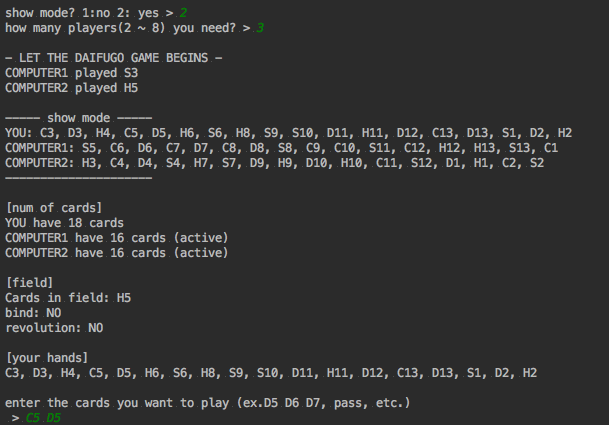
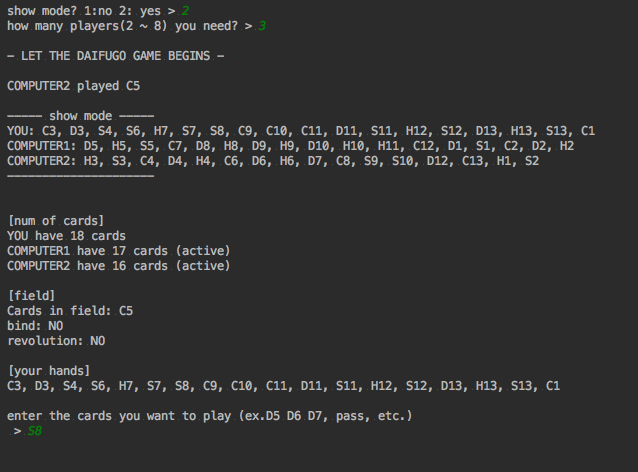
update images

Changed region(s): [[0.0, 0.0, 0.936, 0.4282], [0.0, 0.4588, 0.9048, 1.0]]

diff --git a/src/elements/Field.java b/src/elements/Field.java
@@ -155,12 +155,12 @@ public class Field {
 		}
 
 		Information info;
-		CardHolder cards;
+		CardHolder playedCards;
 
 		while (true) {
 			info = new Information(playersInfo(), cardsInField, cardsPlayed, revolution, bind);
-			cards = player.play(info);
-			if (Validator.check(cards, info)) {
+			playedCards = player.play(info);
+			if (Validator.check(player.hand(), playedCards, info)) {
 				break;
 			}
 			System.out.println("please enter again");
@@ -168,10 +168,10 @@ public class Field {
 
 		// Update Field
 		CardHolder previousCards = cardsInField.clone();
-		player.hand().subtract(cards);
-		System.out.println(player + " played " + cards);
+		player.hand().subtract(playedCards);
+		System.out.println(player + " played " + playedCards);
 
-		if (cards.numOfCards() == 0) {
+		if (playedCards.numOfCards() == 0) {
 			//in case of pass
 			nextPlayer().setState(StateOfPlayer.PLAYING);
 			player.setState(StateOfPlayer.PASSED);
@@ -180,14 +180,14 @@ public class Field {
 			//in case of NOT pass
 			cardsPlayed.add(cardsInField);
 			cardsInField.clear();
-			cardsInField.add(cards);
+			cardsInField.add(playedCards);
 
-			if (cards.numOfCards() >= 4) {
+			if (playedCards.numOfCards() >= 4) {
 				switchRevolution();
 				System.out.println("Revoluiton!!");
 			}
 
-			if (cards.numOfCards(Number.EIGHT) >= 1) {
+			if (playedCards.numOfCards(Number.EIGHT) >= 1) {
 				//in case of 8
 				System.out.println("Yagiri!");
 
@@ -206,7 +206,7 @@ public class Field {
 			} else {
 				// in case of NOT 8
 
-				if (cards.hasSameSuits(previousCards)) {
+				if (playedCards.hasSameSuits(previousCards)) {
 					bind = true;
 				}
 				nextPlayer().setState(StateOfPlayer.PLAYING);
@@ -239,6 +239,12 @@ public class Field {
 	}
 
 	public void showRank() {
+		for(Player player:players){
+			if(player.getState() != StateOfPlayer.FINISHED){
+				winners.add(player);
+			}
+		}
+
 		String str = "";
 		int rank = 0;
 		for (Player player : winners) {

diff --git a/src/elements/Validator.java b/src/elements/Validator.java
@@ -3,9 +3,9 @@ package elements;
 import elements.card.CardHolder;
 
 public class Validator {
-	public static boolean check(CardHolder cardHolder, Information info) {
+	public static boolean check(CardHolder hand, CardHolder playedCards, Information info) {
 		/* in case of pass */
-		if (cardHolder.numOfCards() == 0) {
+		if (playedCards.numOfCards() == 0) {
 			if (info.cardsInField.numOfCards() != 0) {
 				return true;
 			}
@@ -15,7 +15,12 @@ public class Validator {
 
 		/* in case of NOT pass */
 		// hand check
-		if (!cardHolder.isNoneSequence() && !cardHolder.isSequence()) {
+		if (!hand.contains(playedCards)) {
+			System.out.println("you don't have the cards");
+			return false;
+		}
+
+		if (!playedCards.isNoneSequence() && !playedCards.isSequence()) {
 			System.out.println("it's not a correct choice");
 			return false;
 		}
@@ -25,26 +30,26 @@ public class Validator {
 			return true;
 		}
 
-		//in case of unsortedCards in field
+		//in case of cards in field
 		if (info.bind) {
-			if (!cardHolder.hasSameSuits(info.cardsInField)) {
-				System.out.println("the field is bound!!!");
+			if (!playedCards.hasSameSuits(info.cardsInField)) {
+				System.out.println("the field is bound");
 				return false;
 			}
 		}
 
-		if (cardHolder.numOfCards() != info.cardsInField.numOfCards()) {
+		if (playedCards.numOfCards() != info.cardsInField.numOfCards()) {
 			return false;
 		}
 
-		if (cardHolder.isSequence() != info.cardsInField.isSequence()) {
+		if (playedCards.isSequence() != info.cardsInField.isSequence()) {
 			return false;
 		}
 
 		if (!info.revolution) {
-			return cardHolder.highCard().power() > info.cardsInField.highCard().power();
+			return playedCards.highCard().power() > info.cardsInField.highCard().power();
 		} else {
-			return cardHolder.highCard().power() < info.cardsInField.highCard().power();
+			return playedCards.highCard().power() < info.cardsInField.highCard().power();
 		}
 	}
 }

diff --git a/src/algorithm/Human.java b/src/algorithm/Human.java
@@ -1,6 +1,7 @@
 package algorithm;
 
 import elements.Information;
+import elements.Validator;
 import elements.card.Card;
 import elements.card.CardHolder;
 import elements.card.Number;
@@ -26,9 +27,10 @@ public class Human implements Algorithm {
 
 	public CardHolder play(CardHolder hand, Information info) {
 		BufferedReader br = new BufferedReader(new InputStreamReader(System.in));
-		System.out.print(info + "[your hands]\n" + hand + "\n\n");
+		System.out.print("\n" + info + "[your hands]\n" + hand + "\n\n");
 
 		String str;
+		CardHolder cardHolder = new CardHolder();
 
 		while (true) {
 			System.out.print("enter the cards you want to play (ex.D5 D6 D7, pass, etc.)\n > ");
@@ -38,22 +40,23 @@ public class Human implements Algorithm {
 
 				switch (str) {
 					case "pass":
-						return new CardHolder();
+						break;
 
 					default:
-						try {
-							return strToCards(str);
-
-						} catch (Exception e) {
-							System.out.println("please enter the cards correctly");
-							break;
-						}
+						cardHolder = strToCards(str);
+						break;
 				}
-			} catch (Exception e) {
-				System.out.println(e);
-			}
 
-			System.out.print("\n");
+				if (Validator.check(hand, cardHolder, info)) {
+					System.out.print("\n");
+					return cardHolder;
+				} else {
+					System.out.println("please enter the cards correctly");
+				}
+
+			} catch (Exception e) {
+				System.out.println("please enter the cards correctly");
+			}
 		}
 	}
 }

diff --git a/src/elements/card/CardHolder.java b/src/elements/card/CardHolder.java
@@ -56,6 +56,22 @@ public class CardHolder {
 		return count;
 	}
 
+	public boolean contains(CardHolder cardHolder) {
+		for (Card cardTmp : cardHolder.cards) {
+			boolean findFlag = false;
+			for (Card card : cards) {
+				if (cardTmp.equals(card)) {
+					findFlag = true;
+				}
+			}
+
+			if (!findFlag) {
+				return false;
+			}
+		}
+		return true;
+	}
+
 	public boolean isNoneSequence() {
 		if (numOfCards() == 0) {
 			return false;

diff --git a/src/Daifugo.java b/src/Daifugo.java
@@ -51,7 +51,7 @@ class Daifugo {
 			}
 		}
 
-		System.out.print("\n- LET THE DAIFUGO GAME BEGINS -\n");
+		System.out.print("\n- LET THE DAIFUGO GAME BEGINS -\n\n");
 		Field field = new Field(num_of_players, showMode);
 
 		// start the game
